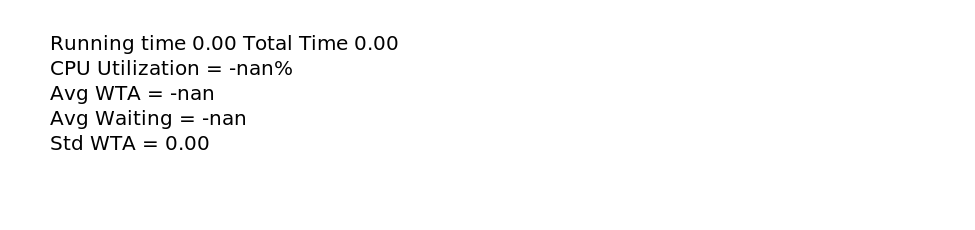
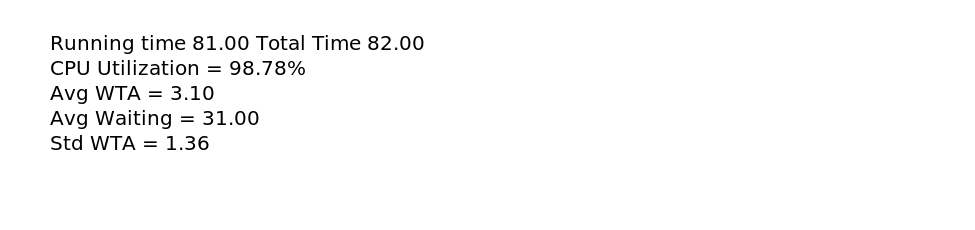
RR perf edits

diff --git a/OS-Scheduler/OS-Scheduler/image_generator.c b/OS-Scheduler/OS-Scheduler/image_generator.c
@@ -19,14 +19,12 @@ int countLines(char *filePath)
     return lines;
 }
 //----------------generate image---------------//
-static void convertTxttoImage(char *filePath,char* imageName)
+static void convertTxttoImage(char *filePath, char *imageName)
 {
     int linesNum = countLines(filePath);
 
-    printf("number of lines %d\n", linesNum);
-
     // Create a Cairo surface
-    cairo_surface_t *surface = cairo_image_surface_create(CAIRO_FORMAT_ARGB32, 15 * 65, 25 * (linesNum)+80); // Adjust dimensions as needed
+    cairo_surface_t *surface = cairo_image_surface_create(CAIRO_FORMAT_ARGB32, 15 * 65, 25 * (linesNum) + 80); // Adjust dimensions as needed
 
     // Create a Cairo context
     cairo_t *cr = cairo_create(surface);
@@ -79,6 +77,6 @@ static void convertTxttoImage(char *filePath,char* imageName)
 int main(int argc, char **argv)
 {
     convertTxttoImage("scheduler.log", "scheduler.log.png");
-    convertTxttoImage("scheduler.perf","scheduler.perf.png");
-     return 0;
+    convertTxttoImage("scheduler.perf", "scheduler.perf.png");
+    return 0;
 }

diff --git a/OS-Scheduler/OS-Scheduler/scheduler.c b/OS-Scheduler/OS-Scheduler/scheduler.c
@@ -276,7 +276,7 @@ void RR(int quantum)
 
     int currentTime;
     int prevtime=0;
-    while (getClk() == 0);
+    // while (getClk() == 0);
     
     while (terminatedProcessesNum < numofProcesses)
     {
@@ -289,6 +289,7 @@ void RR(int quantum)
             recv = &recievedProcesses[recievedProcessesNum];
             forkProcess(recv);
             kill(recv->id,SIGCONT);
+            TotalRun+=recv->runtime;
             raise(SIGSTOP);
             usleep(100); //wait 10microseconds
             kill(recv->id,SIGCONT);
@@ -375,7 +376,6 @@ void RR(int quantum)
             }
         }
     }
-    idealtime--;
 }
 
 //---------------------HPF---------------------------------------------
